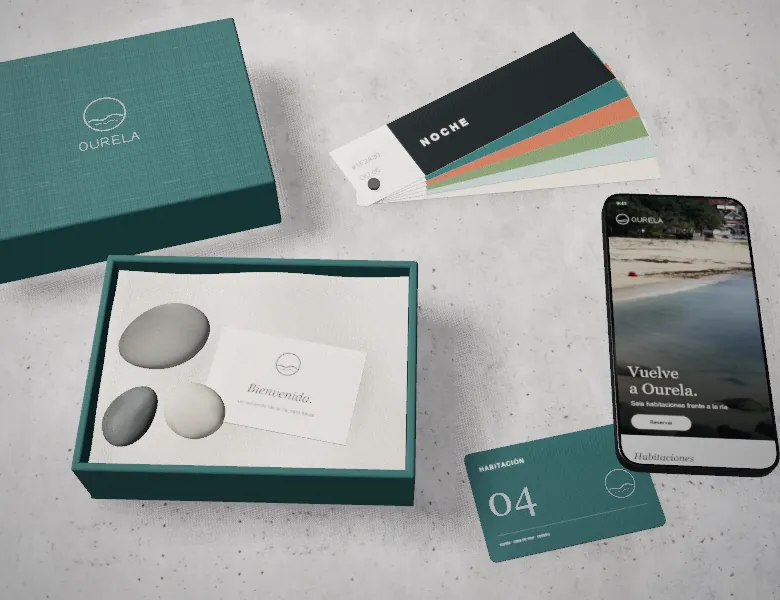
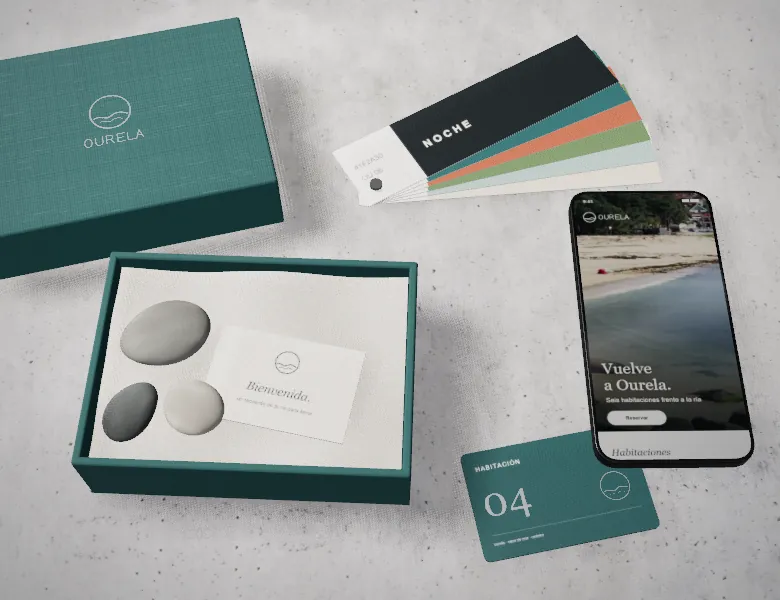
Identity scene: the phone laid square and a little further in; loading stills redone

diff --git a/src/components/Identity/StationeryScene.tsx b/src/components/Identity/StationeryScene.tsx
@@ -1123,8 +1123,9 @@ async function build(host: HTMLDivElement, onReady: () => void, paused: { curren
     const foot = contact(0.74, 1.54);
     (foot.material as THREE.MeshBasicMaterial).opacity = 1;
     phone.add(body, glass, screen, gloss, contact(0.8, 1.6), foot);
-    phone.position.set(1.45, 0, 0.18);
-    phone.rotation.y = -0.1;
+    // (laid nearly square to the table's edge, a little in from the frame's side, where the lens skews least)
+    phone.position.set(1.32, 0, 0.12);
+    phone.rotation.y = -0.03;
     add(phone);
   }
 

diff --git a/src/pages/About/ServicesShowcase.tsx b/src/pages/About/ServicesShowcase.tsx
@@ -41,7 +41,7 @@ if (typeof window !== "undefined") {
 // at once while the live scene loads behind it, which then fades in over it
 type Example ={ img?: string; video?: string; frame?: string; scene?: keyof typeof SCENES; poster?: string; seen: string[]; link?: string };
 
-const POSTER_V = 6;
+const POSTER_V = 7;
 
 // the way into the full example, where an example has one
 const OPEN: Record<string, string> = { es: "Ver el plano en 3D", en: "See the floor plan in 3D", fr: "Voir le plan en 3D", de: "Den Grundriss in 3D ansehen" };
